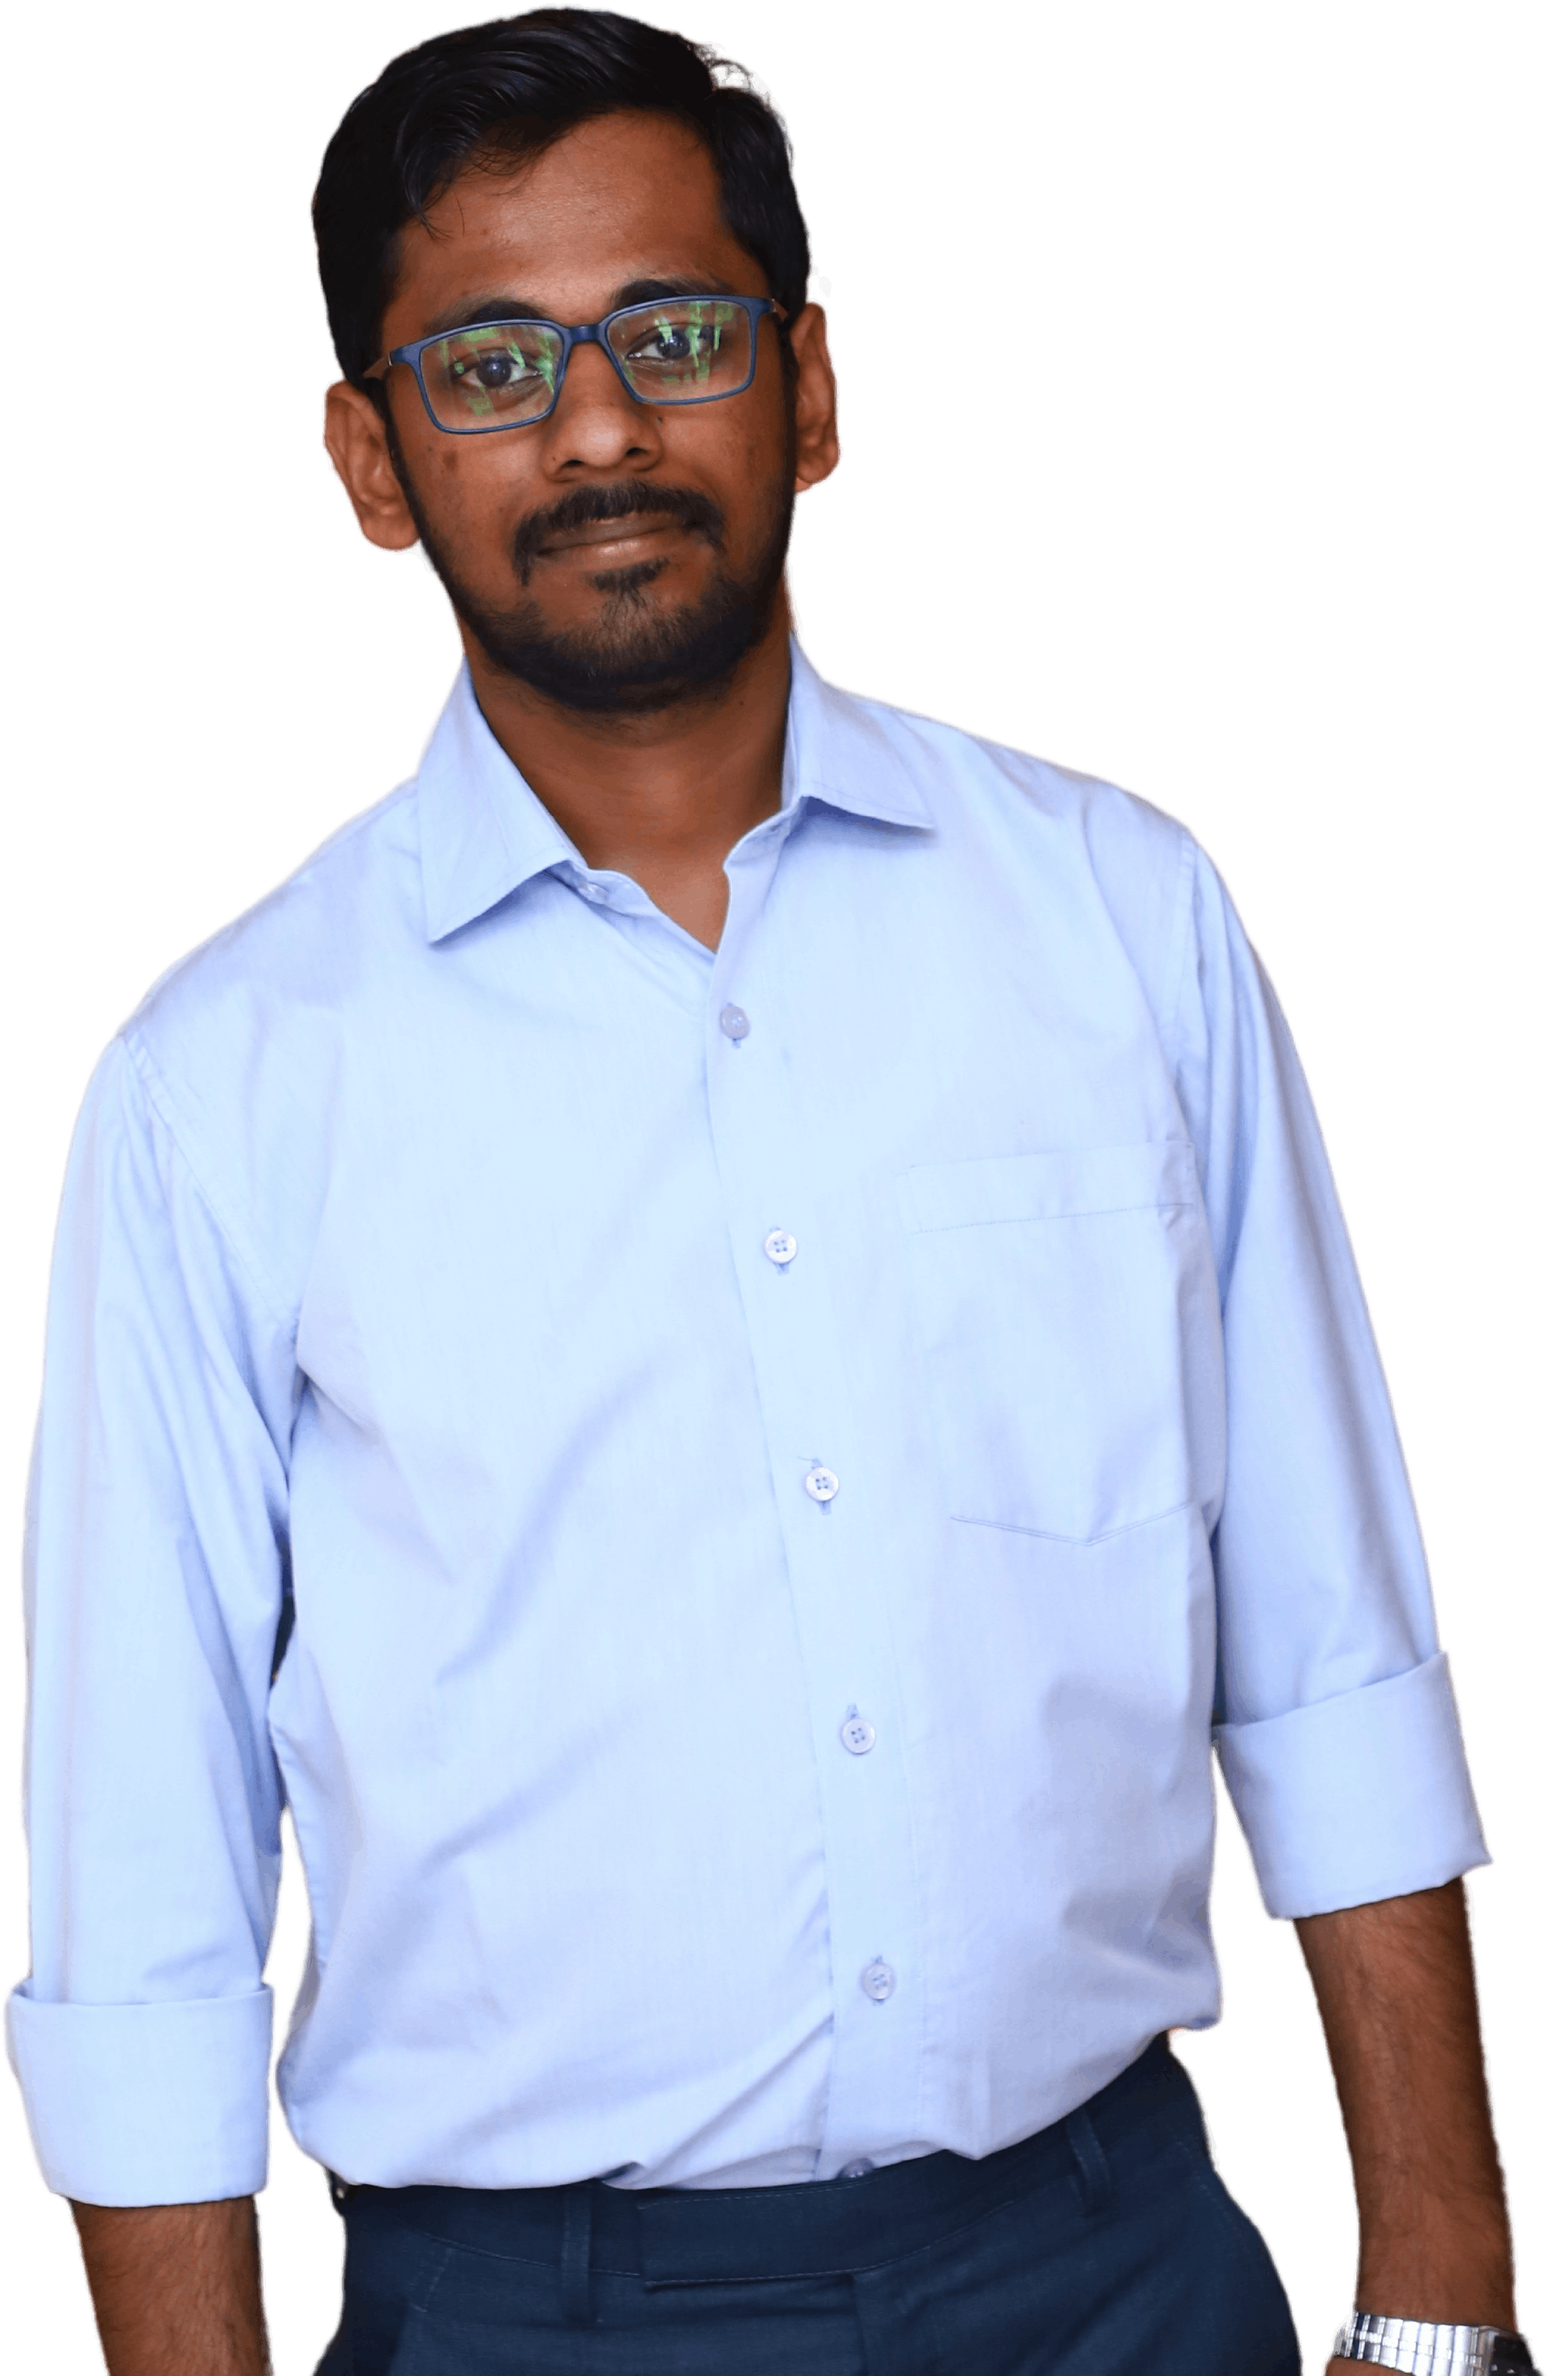
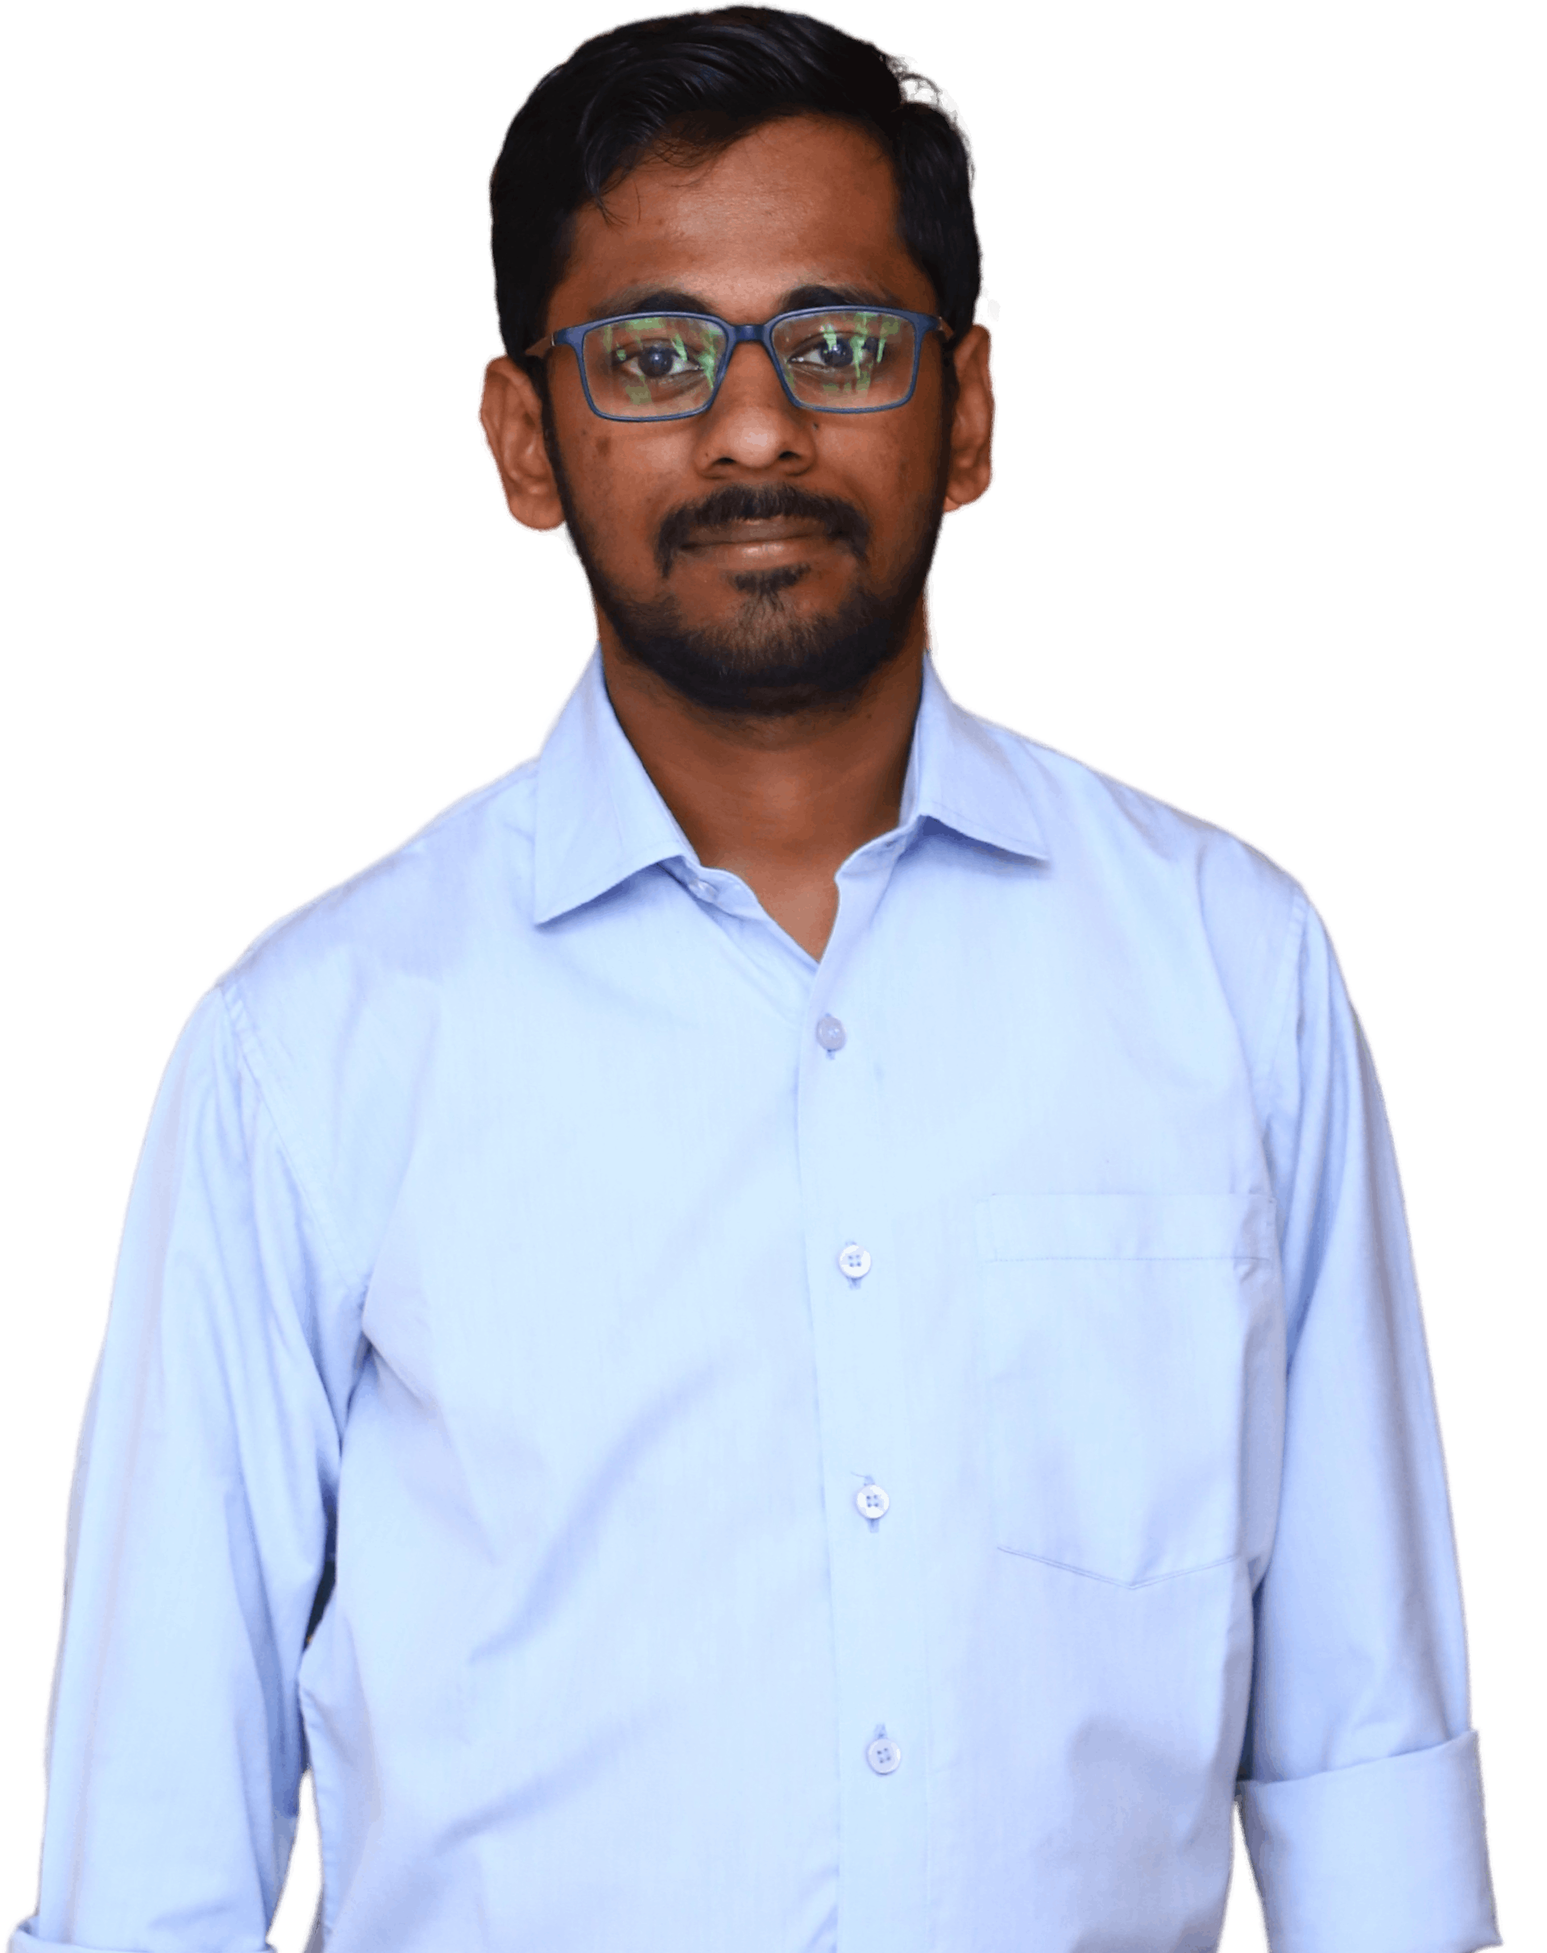
hero

diff --git a/back-code/style.css b/back-code/style.css
@@ -3,7 +3,7 @@ body { background-color: #141414; }
 
 .container { margin: 0px; }
 
-h1, h2, h3, h4, p2, p3 {
+h1, h2, h3, h4, p2, p3, #element {
   font-family: Rokkitt;
   line-height: 1.5;
   color: white;
@@ -18,7 +18,7 @@ h1 {
 
 h2 { font-size: 37px; }
 h3 { font-size: 27px; }
-p2 { font-size: 22px; }
+p2, #element { font-size: 22px; }
 p3 { font-size: 18px; }
 
 @keyframes slideFromLeft {
@@ -33,7 +33,7 @@ p3 { font-size: 18px; }
   }
 }
 
-p, #element, .button {
+p, .button {
   font-family: Rubik;
   font-size: 16px;
   line-height: 2;
@@ -141,7 +141,7 @@ html { scroll-behavior: smooth; }
 /* hero section */
 
 .img2 {
-  width: 375px;
+  width: 400px;
   display: block;
   margin: auto;
 }
@@ -304,25 +304,37 @@ a:hover { color: DEAD1A; }
 }
 
 .social-icons .linkedin {
-  background-color: #0077b5; /* Change color as needed */
+  background-color: #333647;
+  color: #DEAD1A;
+  /* background-color: #0077b5; */
 }
 
 .social-icons .twitter {
-  background-color: #55acee; /* Change color as needed */
+  background-color: #333647;
+  color: #DEAD1A;
+  /* background-color: #55acee;  */
 }
 
 .social-icons .instagram {
-  background-color: #e4405f; /* Change color as needed */
+  background-color: #333647;
+  color: #DEAD1A;
+  /* background-color: #e4405f;  */
 }
 
 .social-icons .whatsapp {
-  background-color: #128C7E; /* Change color as needed */
+  background-color: #333647;
+  color: #DEAD1A;
+  /* background-color: #128C7E;  */
 }
 
 .social-icons .email {
-  background-color: #EA4335; /* Change color as needed */
+  background-color: #333647;
+  color: #DEAD1A;
+  /* background-color: #EA4335;  */
 }
 
 .social-icons .phone {
-  background-color: #309BE3; /* Change color as needed */
+  background-color: #333647;
+  color: #DEAD1A;
+  /* background-color: #309BE3;  */
 }

diff --git a/back-code/responsive.css b/back-code/responsive.css
@@ -8,15 +8,15 @@
 		padding-bottom: 4%;
 	}
 
-	h1 { font-size: 35px; }
-	h2 { font-size: 30px; }
+	h1 { font-size: 50px; }
+	h2 { font-size: 40px; }
 	h3 { font-size: 25px; }
 	p { font-size: 16px; }
 	p2 { font-size: 20px; }
 
 	.column { padding: 0px !important; }
 
-	#img { object-fit: fill !important; }
+	#img { width:50% }
 
 	#about { width: auto !important; margin-bottom: 20px; }
 
@@ -38,7 +38,7 @@
 		flex-wrap: wrap;
 		padding-right: 4%;
 		padding-left: 4%;
-		padding-top: 4%;
+		padding-top: 10%;
 		padding-bottom: 0%;
 		text-align: center;
 		flex-direction: column-reverse;
@@ -48,11 +48,18 @@
 		margin-left: auto;
 		margin-right: auto;
 		margin-top: 15px;
-		margin-bottom: 30px;
+		margin-bottom: 15px;
 	}
 
 	#footer { margin-top: 30px; }
 	.social-icons { top: 75%; }
 	.icon { font-size: 50px !important; padding: 12px !important; }
+
+	.hero-row {
+		height: 1100px;
+	}
+
+	.img2 { width:560px; margin-top: auto; margin-bottom: 0px; }
+	#hero-col { padding-bottom: 10%; }
 
 }

diff --git a/index.html b/index.html
@@ -45,8 +45,9 @@
 	<div class="container" id="hero">
         <div class="hero-row">
             <div class="row2">
-                <div class="column2">
-                    <p2>Hi, I'm</p2><h1><font style="color:#DEAD1A;">Apoorv Agarwal</font></h1>
+                <div class="column2" id="hero-col">
+                    <p2>Hi, I'm</p2>
+                    <h1><font style="color:#DEAD1A;">Apoorv Agarwal</font></h1>
                     <span id="element"></span>
                     <a href="./image/resume.pdf" download><div class="button"><span>Download Resume</span></div></a>
                 </div>
@@ -264,7 +265,7 @@
     <script src="./back-code/script.js"></script>
     <script>var typed = new Typed('#element', {
         strings: ['Frontend Developer &amp; Designer. A portfolio to show my expertise and work...'],
-        typeSpeed: 100,
+        typeSpeed: 40,
       });</script>
     
 </body>
